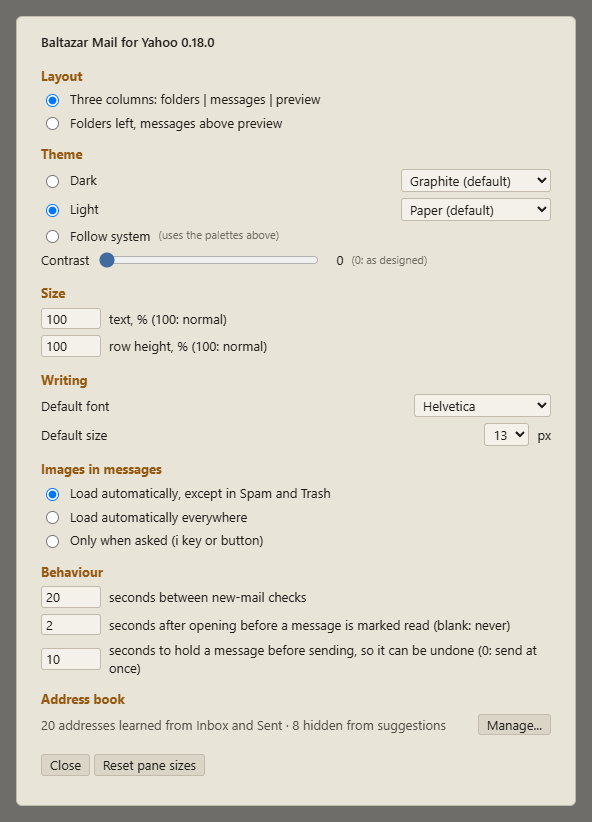
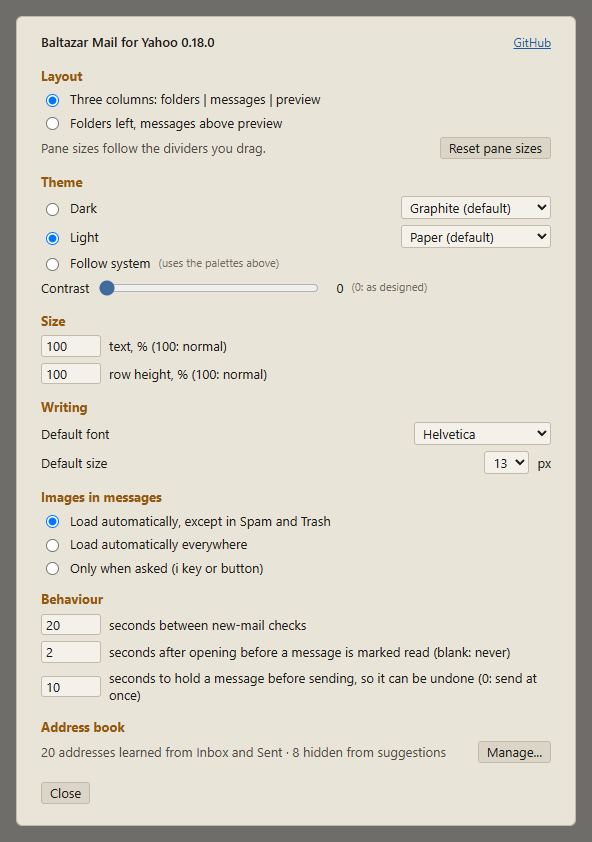
Put Reset pane sizes under Layout and link Settings to the project on GitHub
The reset belongs with the layout choices it undoes, not beside Close. The link goes to the repository home page, the hub for releases, issues and the privacy and security notes; the repository path is now a single constant that the release check and both links derive from.

diff --git a/ext/mail.html b/ext/mail.html
@@ -135,10 +135,11 @@
 <div id="settings" class="hidden">
   <div id="settings-box">
    <div id="settings-main">
-    <div id="app-version"></div>
+    <div id="app-head"><span id="app-version"></span><a id="app-repo" target="_blank" rel="noopener" title="This project on GitHub: source, releases, issues">GitHub</a></div>
     <b>Layout</b>
     <label><input type="radio" name="layout" value="vertical"> Three columns: folders | messages | preview</label>
     <label><input type="radio" name="layout" value="horizontal"> Folders left, messages above preview</label>
+    <div class="set-row"><span>Pane sizes follow the dividers you drag.</span><button id="settings-reset">Reset pane sizes</button></div>
     <b>Theme</b>
     <div class="theme-row"><label><input type="radio" name="theme" value="dark"> Dark</label><select id="darkTheme" title="Palette used in dark mode" aria-label="Dark palette"></select></div>
     <div class="theme-row"><label><input type="radio" name="theme" value="light"> Light</label><select id="lightTheme" title="Palette used in light mode" aria-label="Light palette"></select></div>
@@ -159,9 +160,9 @@
     <label><input type="number" id="markread" min="0" max="60" step="1" style="width:60px"> seconds after opening before a message is marked read (blank: never)</label>
     <label><input type="number" id="undosend" min="0" max="60" step="1" style="width:60px"> seconds to hold a message before sending, so it can be undone (0: send at once)</label>
     <b>Address book</b>
-    <div class="ab-row"><span id="ab-summary">Learned from your Inbox and Sent headers.</span><button id="ab-open">Manage...</button></div>
+    <div class="set-row"><span id="ab-summary">Learned from your Inbox and Sent headers.</span><button id="ab-open">Manage...</button></div>
     <p id="update-note" class="hidden"></p>
-    <p><button id="settings-close">Close</button> <button id="settings-reset">Reset pane sizes</button> <button id="signout" class="hidden" title="Forget the sign-in; the sign-in page asks again">Sign out</button></p>
+    <p><button id="settings-close">Close</button> <button id="signout" class="hidden" title="Forget the sign-in; the sign-in page asks again">Sign out</button></p>
    </div>
    <div id="settings-ab" class="hidden">
     <div class="ab-head"><button id="ab-back" title="Back to Settings (Esc)">‹ Settings</button><b>Address book</b><span></span></div>

diff --git a/ext/mail.css b/ext/mail.css
@@ -31,7 +31,9 @@ body.dragging iframe { pointer-events: none; }
 #gear { padding: 0 5px; position: relative; display: inline-flex; align-items: center; color: var(--accent); }
 #gear svg { width: 16px; height: 16px; }
 #gear.has-update::after { content: ""; position: absolute; top: 2px; right: 1px; width: 7px; height: 7px; border-radius: 50%; background: var(--accent); }
-#app-version { font-weight: 600; margin-bottom: 2px; }
+#app-head { display: flex; align-items: baseline; gap: 12px; margin-bottom: 2px; }
+#app-version { font-weight: 600; flex: 1; }
+#app-repo { font-size: 12px; }
 #update-note { margin: 10px 0 0; padding: 6px 8px; border-left: 3px solid var(--accent); }
 /* Modal overlays sit above every popover (search help, cards, menus, suggestions). */
 #settings { position: fixed; inset: 0; z-index: 80; background: rgba(0,0,0,.55); display: flex; align-items: center; justify-content: center; }
@@ -257,8 +259,9 @@ body.dragging iframe { pointer-events: none; }
 #settings-main.hidden, #settings-ab.hidden { display: none; }
 #settings-ab { animation: ab-in .14s ease-out; }
 @keyframes ab-in { from { opacity: 0; transform: translateX(16px); } to { opacity: 1; transform: none; } }
-.ab-row { display: flex; align-items: center; gap: 10px; }
-.ab-row span { flex: 1; color: var(--fg2); }
+/* A sentence with its button at the right, in Settings */
+.set-row { display: flex; align-items: center; gap: 10px; }
+.set-row span { flex: 1; color: var(--fg2); }
 .ab-head { display: grid; grid-template-columns: 1fr auto 1fr; align-items: center; margin-bottom: 4px; }
 .ab-head b { margin: 0 !important; }
 #ab-back { justify-self: start; background: none; border: 0; color: var(--accent); cursor: pointer; padding: 2px 0; font: inherit; }

diff --git a/ext/update.js b/ext/update.js
@@ -2,8 +2,10 @@
 // Settings can say when an update is available. No cookies and nothing about the user or the
 // mailbox is sent; the answer is only compared with the installed version. Nothing is downloaded.
 
-const LATEST = "https://api.github.com/repos/gdevic/baltazar-mail-2/releases/latest";
-export const RELEASES = "https://github.com/gdevic/baltazar-mail-2/releases/latest";
+const REPO_PATH = "gdevic/baltazar-mail-2";
+export const REPO = `https://github.com/${REPO_PATH}`;
+export const RELEASES = `${REPO}/releases/latest`;
+const LATEST = `https://api.github.com/repos/${REPO_PATH}/releases/latest`;
 const DAY = 86400e3, RETRY = 3600e3;
 const TAG = /^v(\d{1,4})\.(\d{1,4})\.(\d{1,4})$/;
 

diff --git a/ext/mail.js b/ext/mail.js
@@ -2191,6 +2191,7 @@ async function poll() {
 async function checkUpdate() {
   const have = chrome.runtime.getManifest().version, note = $("update-note");
   $("app-version").textContent = `${APP} ${have}`;
+  $("app-repo").href = update.REPO;
   if (!await loadedFromZip()) return;
   const v = await update.latest().catch(() => null);
   const avail = !!v && update.newer(v, have);
